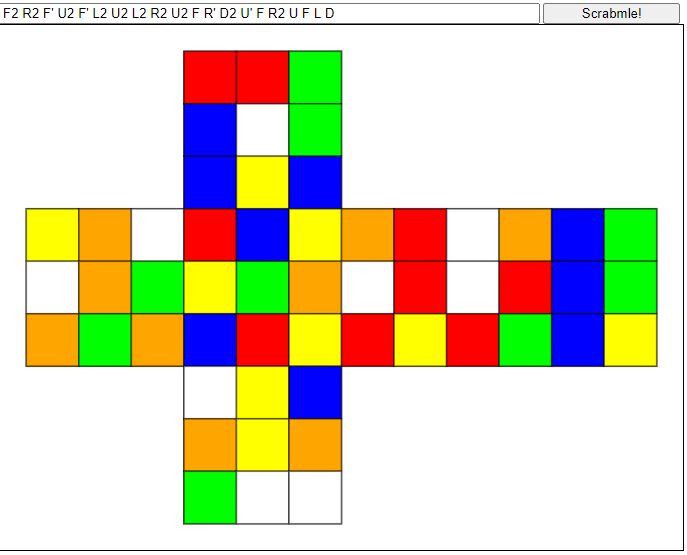
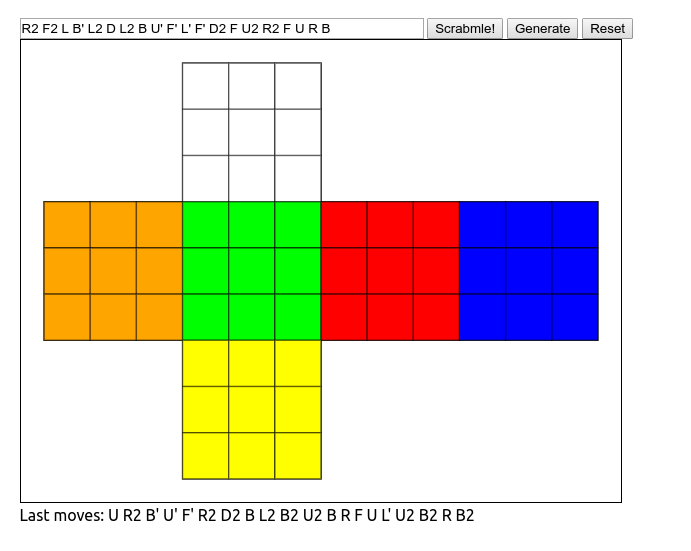
Add new buttons

diff --git a/js/scramble.js b/js/scramble.js
@@ -61,9 +61,79 @@ function applyScramble(cube, scramble) {
             case 'b':
                 cube.moveb(prime);
                 break;
+            case 'x':
+                cube.moveX(prime);
+                break;
+            case 'y':
+                cube.moveY(prime);
+                break;
+            case 'z':
+                cube.moveZ(prime);
+                break;
             default:
-                console.error('Unknown move',moves[i][0], prime);
+                console.error('Unknown move',moves[i], prime);
         }
         if(prime) i++; //skip prime value
     }
+}
+
+function generateScramble(n) {
+    let scramble = [];
+    for(let i=0; i<n; i++)
+    {
+        let move;
+        do{
+            move = randMove();
+        }
+        while(i>0 && planeCompare(scramble[i-1], move));
+        if(Math.random()>0.66)
+            move += '2';
+        else if(Math.random()>0.5)
+            move += "'";
+        scramble.push(move);
+    }
+    return scramble.join(' ');
+}
+
+function randMove() {
+    switch (parseInt(Math.random()*6)) {
+        case 0:
+            return 'U';
+            break;
+        case 1:
+            return 'D';
+            break;
+        case 2:
+            return 'R';
+            break;
+        case 3:
+            return 'L';
+            break;
+        case 4:
+            return 'F';
+            break;
+        case 5:
+            return 'B';
+            break;
+        default:
+            return '';
+    }
+}
+
+function planeCompare(prev, act)
+{
+    if(plane(prev.replace(/[2']/g,'')) == plane(act.replace(/[2']/g,'')))
+        return true;
+    return false;
+}
+
+function plane(move)
+{
+    if(move == 'U' || move=='D')
+        return 'x';
+    if(move == 'L' || move=='R')
+        return 'y';
+    if(move == 'F' || move=='B')
+        return 'z';
+    return 'e';
 }

diff --git a/js/main.js b/js/main.js
@@ -5,20 +5,26 @@ $(document).ready(function () {
     let cube = new Cube();
     drawCube(cube, ctx);
 
-    $("#scrambleForm").submit(()=>{
+    $("#scrambleForm").on("submit", ()=>{
         applyScramble(cube, $("#scramble").val());
         drawCube(cube, ctx);
+        $("#lastMoves").text("Last moves: " + $("#scramble").val());
         $("#scramble").val('');
         return false;
     });
 
-    $("#scramble").on("keyup paste",()=>{
+    $("#scramble").on("keyup paste",(e)=>{
         let t = $("#scramble");
-        t.val(t.val().replace(/[^LRUDFBlrudfb'2 ]/g,''));
+        t.val(t.val().replace(/[^LRUDFBlrudfb'2xyz ]/g,''));
     });
 
-    $("#reset").click(()=>{
-        console.log("a");
+    $("#generate").on("click",()=>{
+        let scramble = generateScramble(20);
+        $("#scramble").val(scramble);
+    });
+
+
+    $("#reset").on("click", ()=>{
         cube = new Cube();
         drawCube(cube, ctx);
     });

diff --git a/index.html b/index.html
@@ -18,9 +18,11 @@
     <form id="scrambleForm">
         <input type="text" id="scramble" autocomplete="off" title="Type your scramble here">
         <button type="submit" title="Click here to apply your scramble">Scrabmle!</button>
+        <button type="button" id="generate" title="Click here to generate scramble">Generate</button>
         <button type="button" id="reset" title="Click here to reset cube to default state">Reset</button>
     </form>
     <canvas id="pattern" width="780" height="600"></canvas>
+        <div id="lastMoves"></div>
     </div>
 </body>
 </html>
